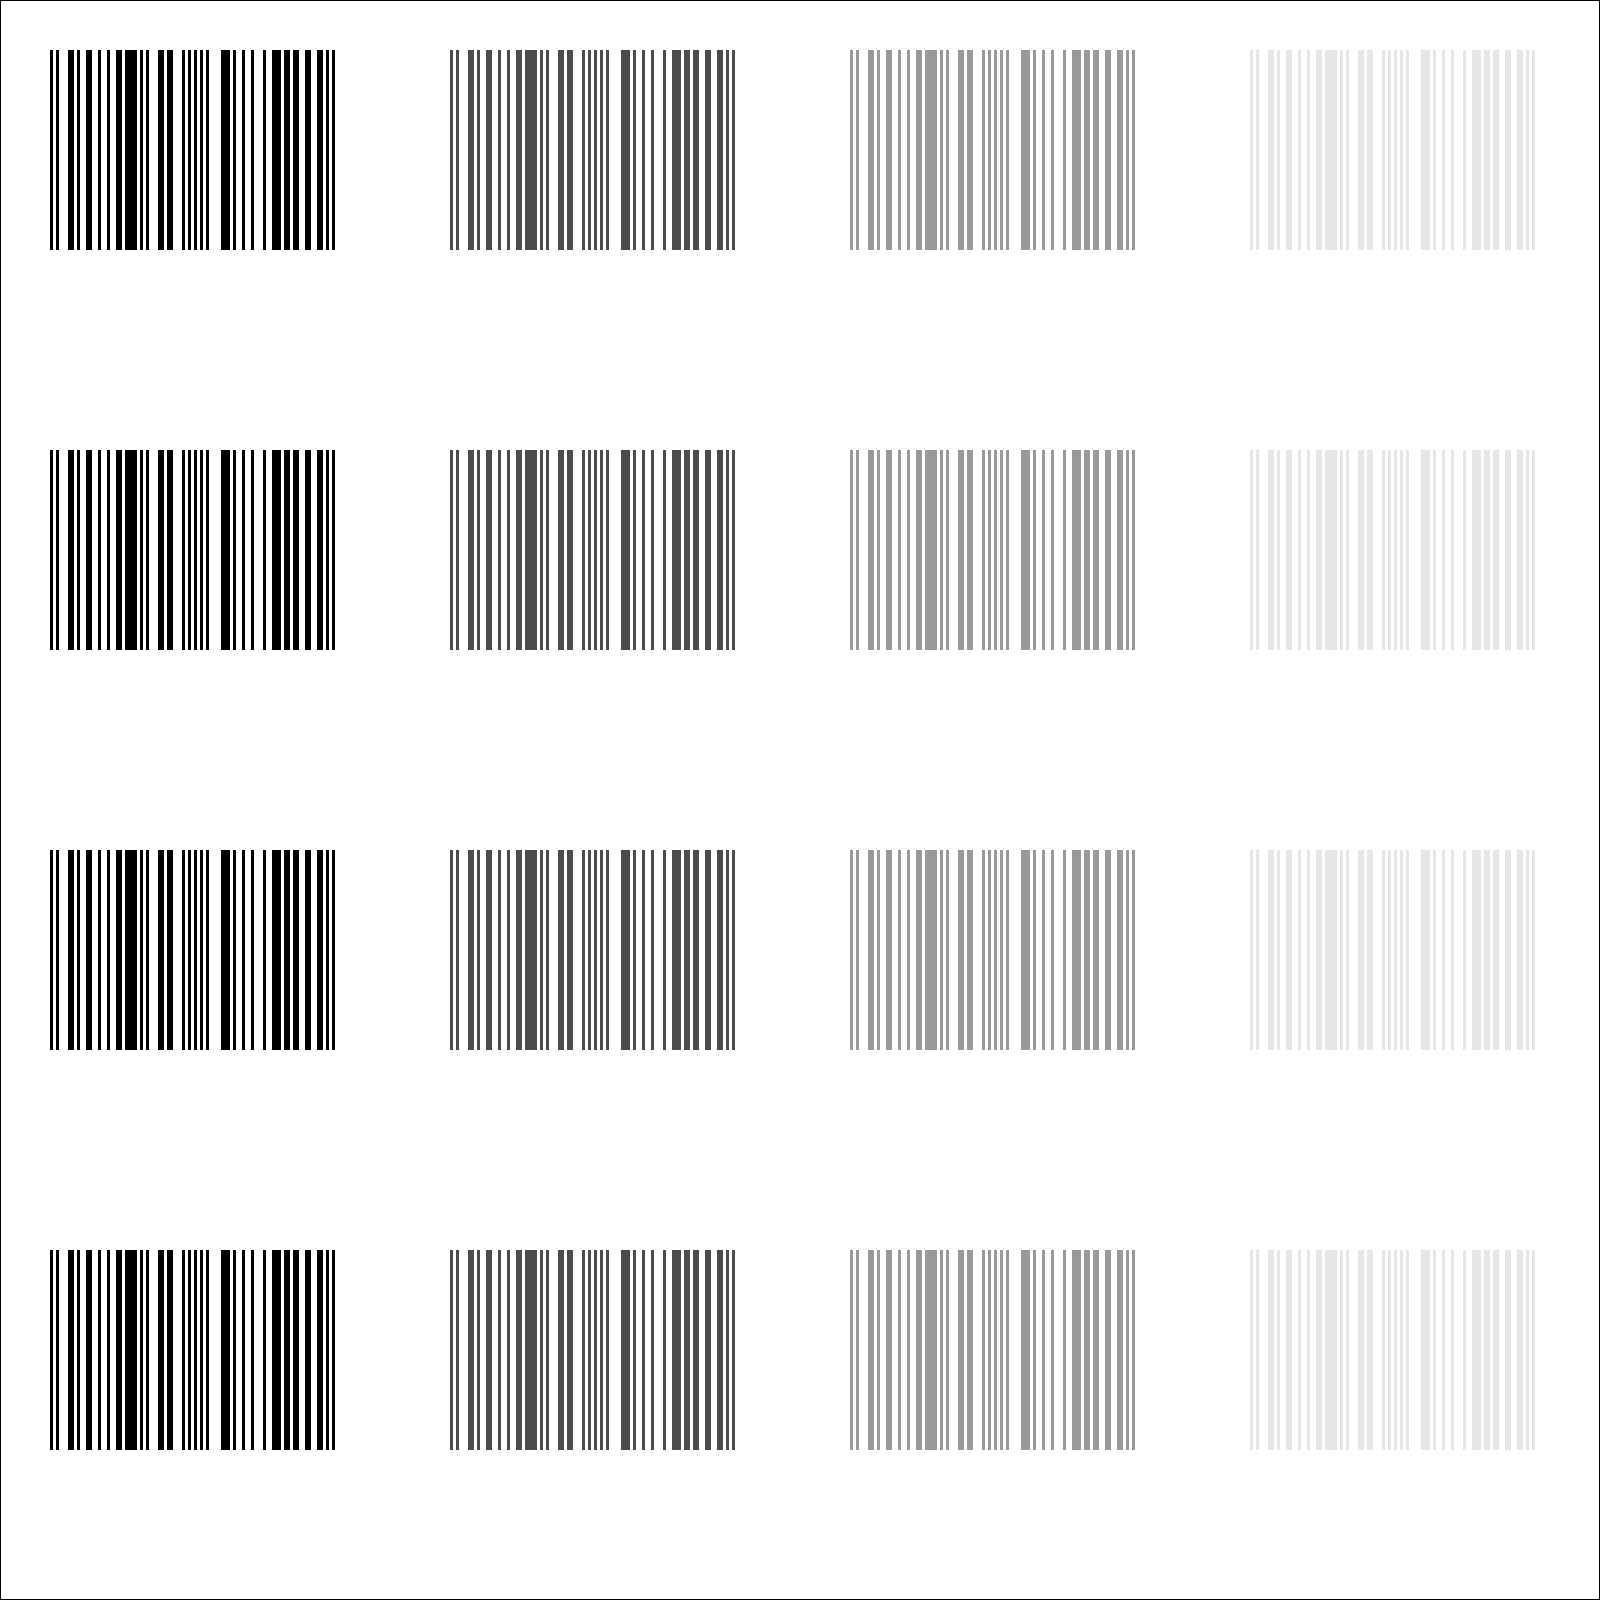
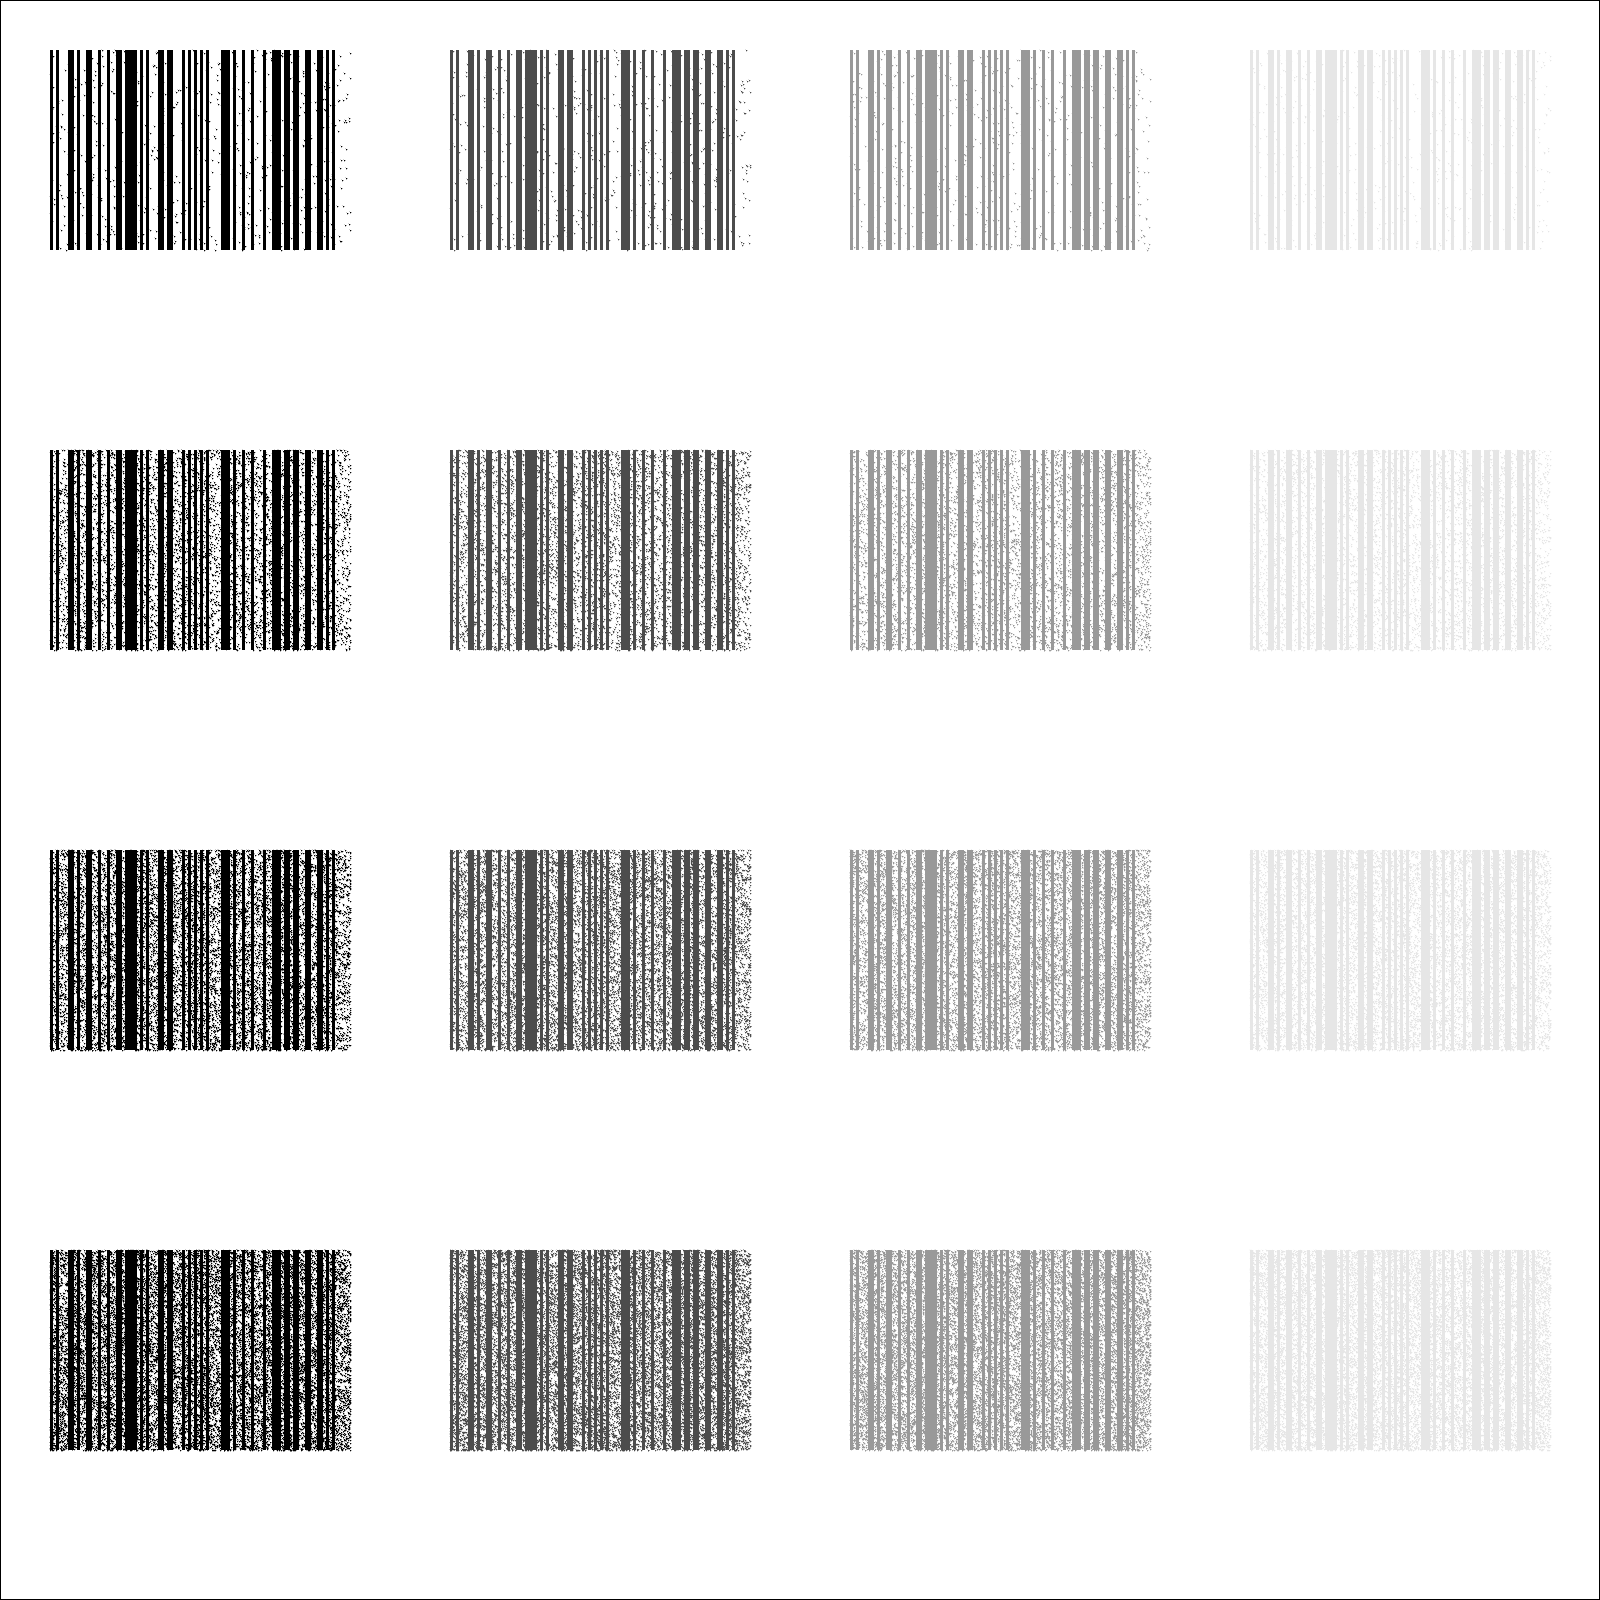
生成噪点

diff --git a/Mypic.py b/Mypic.py
@@ -36,10 +36,6 @@ def draw_code(ctx, code,r,g,b,x,y):
         if c=="1":
             ctx.rectangle(xpos, y, width_per_code, height_per_code)
             ctx.fill()
-def creatNoise():
-    for k in range(18):
-        ctx.arc(random.randint(1,100),random.randint(1,100),2,0,2)
-        ctx.stroke()
 
 if __name__ == '__main__':
     WIDTH, HEIGHT = 1600, 1600
@@ -58,6 +54,9 @@ if __name__ == '__main__':
             code = creatNumber("1234569852")
             draw_code(ctx,code,r,r,r,x,y)
             r = r +0.3
+            for k in range(15 * (y + 1)):  # 噪点添加
+                ctx.arc(random.randint(x, x+300), random.randint(y, y + 200), 0.5, 0, 0.5 * math.pi)
+                ctx.stroke()
     surface.write_to_png ("barcode1.png") # Output to PNG
 
 
